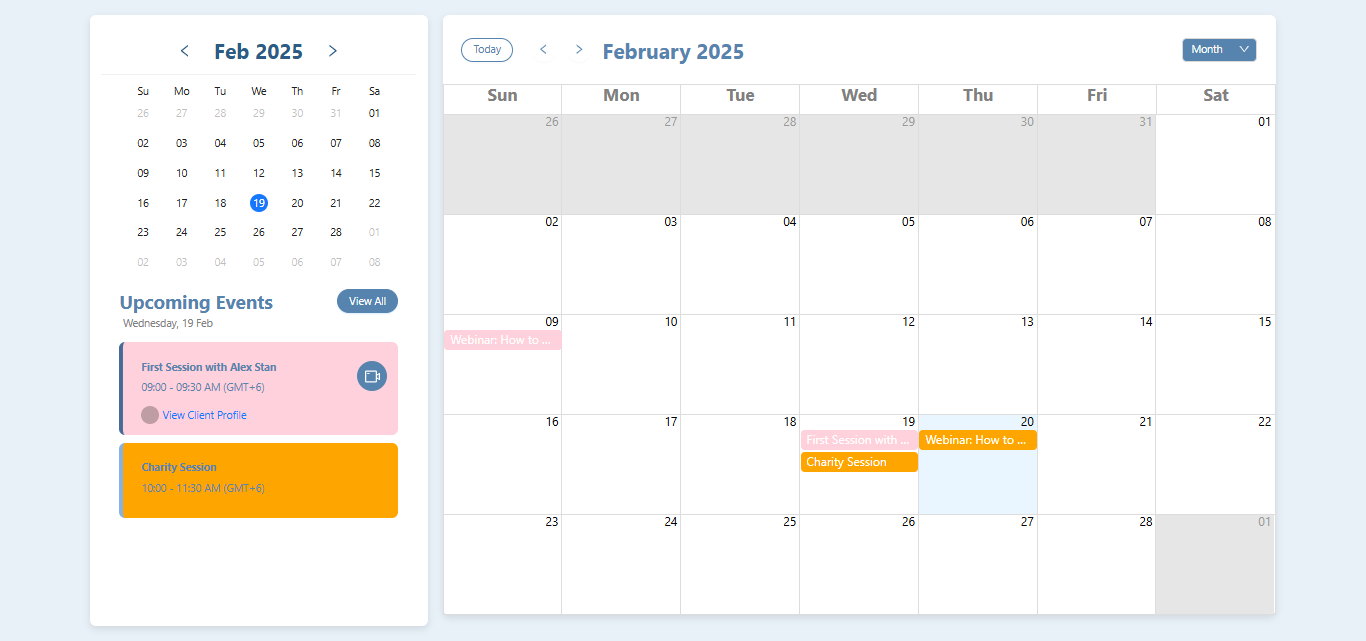
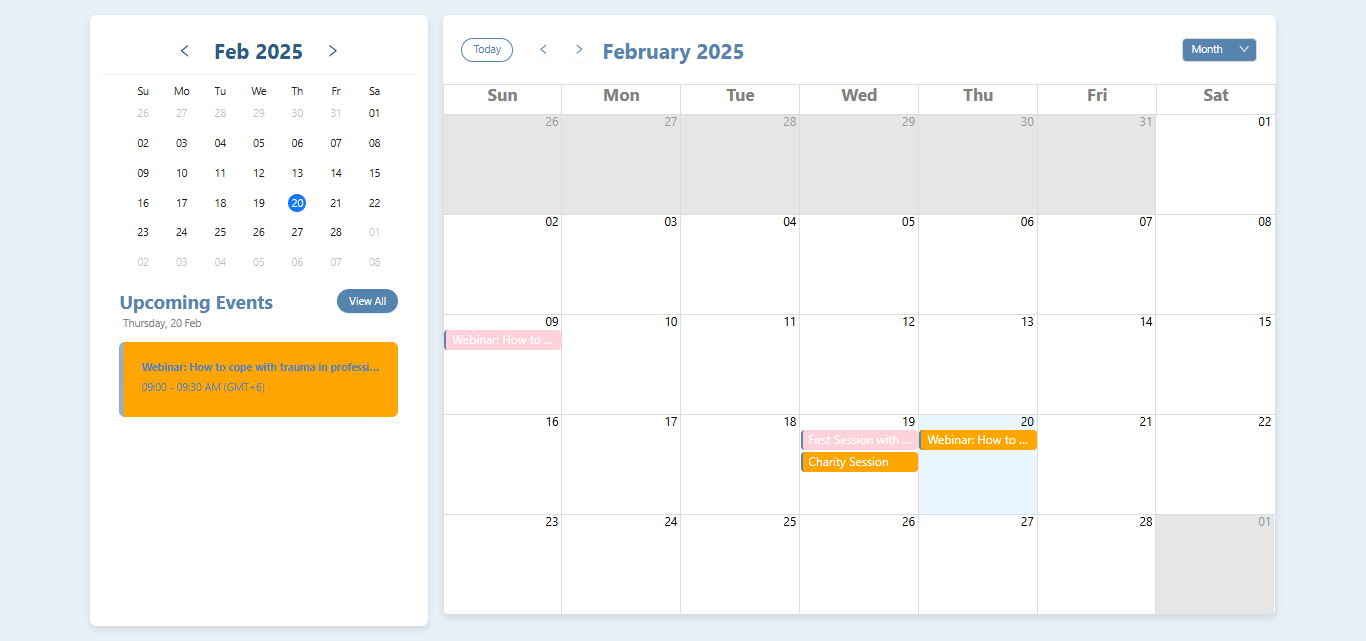
done

diff --git a/src/component/CalendarComponent.jsx b/src/component/CalendarComponent.jsx
@@ -12,13 +12,27 @@ import "react-big-calendar/lib/css/react-big-calendar.css";
 
 const localizer = momentLocalizer(moment);
 
+const events = eventsData.map((event) => ({
+  title: event.title,
+  start: moment(
+    `${event.date} ${event.time.split(" - ")[0]}`,
+    "YYYY-MM-DD hh:mm A"
+  ).toDate(),
+  end: moment(
+    `${event.date} ${event.time.split(" - ")[1]}`,
+    "YYYY-MM-DD hh:mm A"
+  ).toDate(),
+  hasClientProfile: !!event.client?.profile_url,
+}));
+
 const CalendarView = () => {
   const [selectedDate, setSelectedDate] = useState(null);
   const [filteredEvents, setFilteredEvents] = useState(eventsData);
   const [viewAll, setViewAll] = useState(true);
-
+  // big-Calender
   const [view, setView] = useState("month");
   const [date, setDate] = useState(new Date());
+
   useEffect(() => {
     if (selectedDate) {
       const filtered = eventsData.filter(
@@ -32,27 +46,14 @@ const CalendarView = () => {
     }
   }, [selectedDate]);
 
-  const events = eventsData.map((event) => ({
-    title: event.title,
-    start: moment(
-      `${event.date} ${event.time.split(" - ")[0]}`,
-      "YYYY-MM-DD hh:mm A"
-    ).toDate(),
-    end: moment(
-      `${event.date} ${event.time.split(" - ")[1]}`,
-      "YYYY-MM-DD hh:mm A"
-    ).toDate(),
-    hasClientProfile: !!event.client?.profile_url,
-  }));
-
+  //
   const handleDateChange = (newDate) => {
     setSelectedDate(moment(newDate).format("YYYY-MM-DD"));
+    setDate(new Date(newDate));
   };
-
   const OnTap = () => {
     alert("sử dụng navigate trong react-router chuyển trang mới...");
   };
-
   const handleViewAll = () => {
     setSelectedDate(null);
   };
@@ -144,7 +145,7 @@ const CalendarView = () => {
               style: {
                 backgroundColor,
                 color: "#fff",
-                borderLeft: "4px solid #5684ae",
+                borderLeft: "3px solid #5684ae",
                 borderRadius: "5px",
                 marginTop: "2px",
                 padding: "4px 8px",
